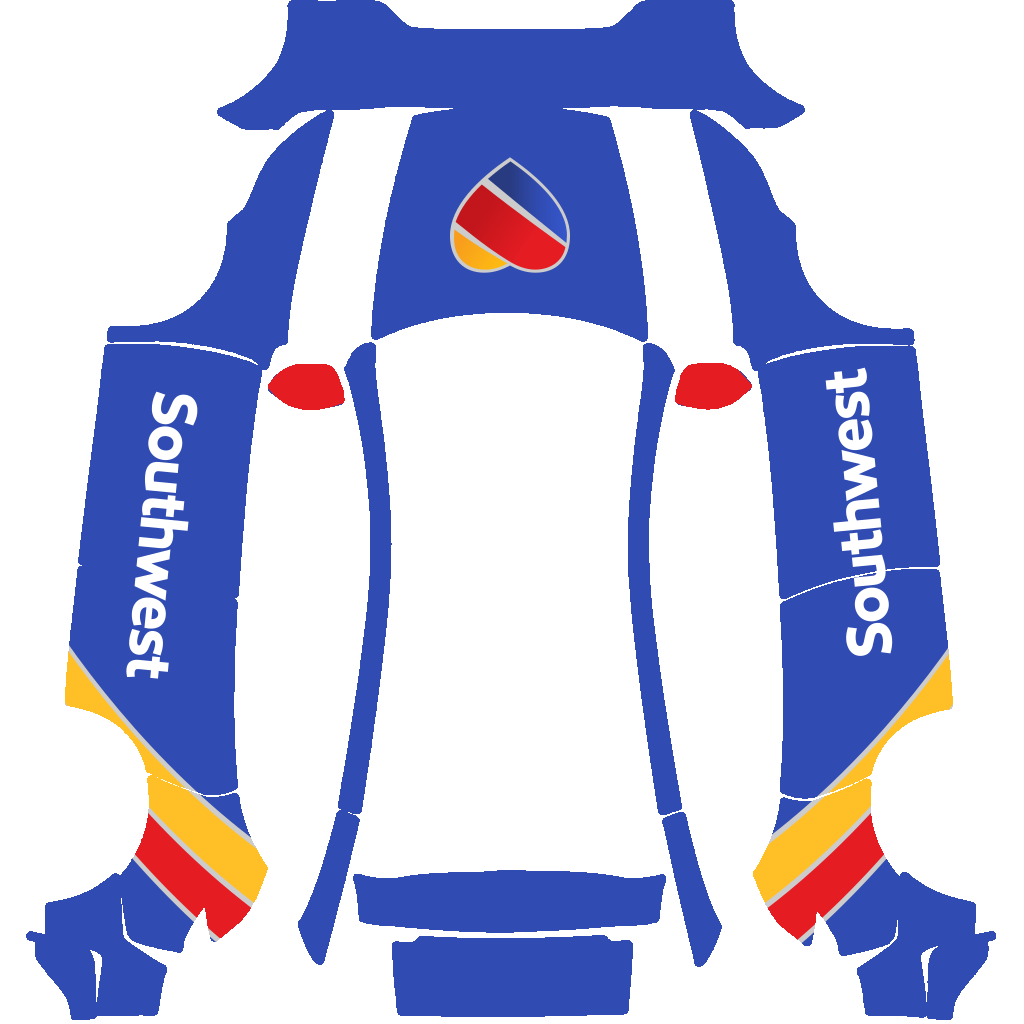
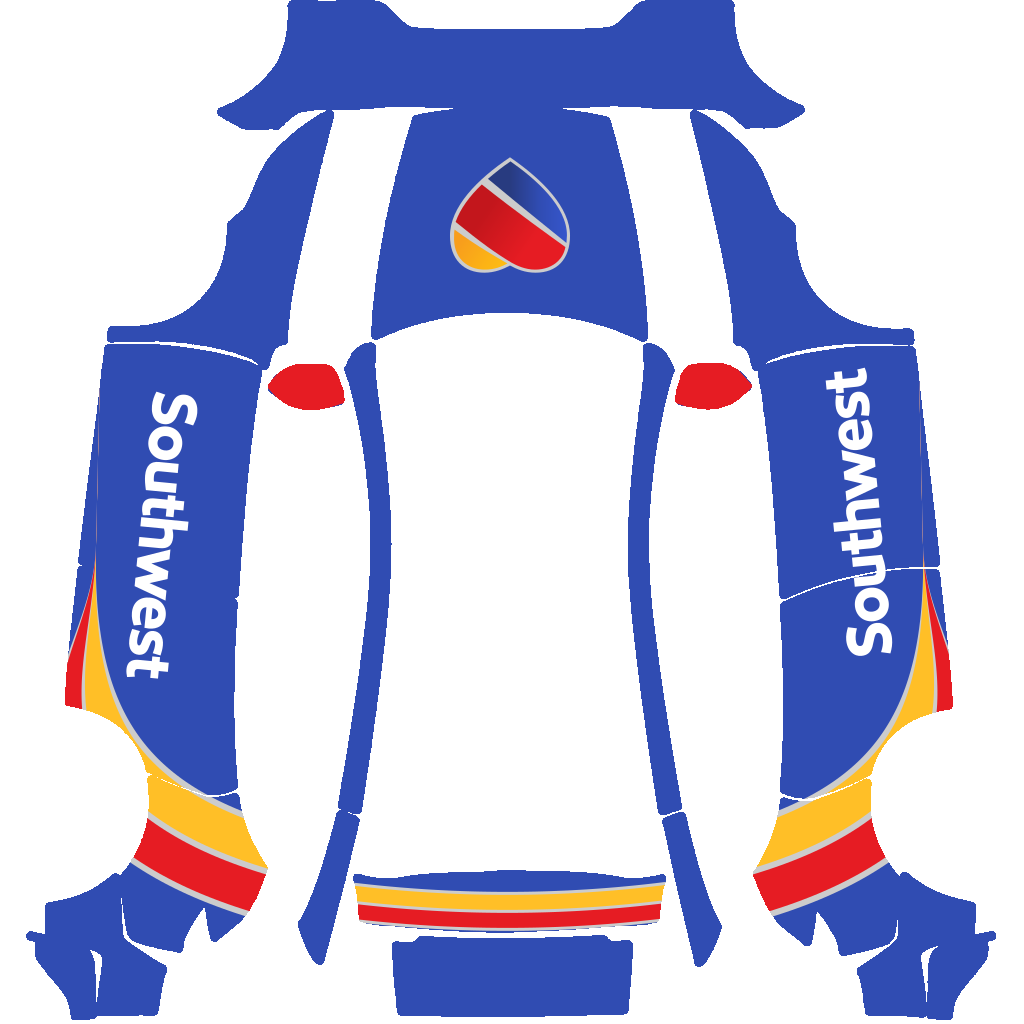
feat: curve the tail-stripe swoop and carry it across the liftgate
The side stripes now taper out of a point low on the doors, run back
along the bottom of the rear door and curve up over the rear wheel to
the window line, like the 737's stripes rising into the tail. Bands are
true offsets of the curve, so yellow and red keep equal widths around
the bend.

The liftgate strip above the light bar picks the stripes up at the rear
corners and carries them across the back, red nearest the light bar
and yellow above, following the strip's curve so they sit level on the
car.

diff --git a/src/livery.ts b/src/livery.ts
@@ -66,39 +66,14 @@ export function heart({ cx, cy, rotate = 0, size }: Placement & { size: number }
   );
 }
 
-/**
- * Fills everything on one side of `curve` with `fill`. The curve is extended
- * straight out of both ends by `reach` pixels, then the shape is closed
- * through the `around` points, which should sit well outside the panels on
- * the side to be filled. Painting successive curves on top of each other
- * builds up the livery's swoosh of stripes.
- */
-export function regionBeyond(
-  curve: Curve,
-  fill: string,
-  around: (start: Point, end: Point) => Point[],
-  reach = 400,
-): string {
-  const [p0, p1, p2, p3] = curve;
-  const extend = (from: Point, toward: Point): Point => {
-    const dx = from[0] - toward[0];
-    const dy = from[1] - toward[1];
-    const len = Math.hypot(dx, dy) || 1;
-    return [from[0] + (dx / len) * reach, from[1] + (dy / len) * reach];
-  };
-  const start = extend(p0, p1);
-  const end = extend(p3, p2);
-  const close = around(start, end)
-    .map((p) => ` L${pt(p)}`)
-    .join("");
-  return `<path fill="${fill}" d="M${pt(start)} L${pt(p0)} C${pt(p1)} ${pt(p2)} ${pt(p3)} L${pt(end)}${close} Z"/>`;
-}
+/** A stripe's color and its width in template pixels. */
+export type Stripe = [fill: string, width: number];
 
 /**
  * The tail stripes as they cross the 737's rear fuselage, front to back:
  * yellow and red bands of equal width, outlined by silver pinstripes.
  */
-export function tailStripes(band: number, pinstripe: number): [fill: string, width: number][] {
+export function tailStripes(band: number, pinstripe: number): Stripe[] {
   return [
     [COLORS.summitSilver, pinstripe],
     [COLORS.sunriseYellow, band],
@@ -108,25 +83,77 @@ export function tailStripes(band: number, pinstripe: number): [fill: string, wid
   ];
 }
 
+const bezier = ([p0, p1, p2, p3]: Curve, t: number): Point => {
+  const u = 1 - t;
+  const [a, b, c, d] = [u * u * u, 3 * u * u * t, 3 * u * t * t, t * t * t];
+  return [a * p0[0] + b * p1[0] + c * p2[0] + d * p3[0], a * p0[1] + b * p1[1] + c * p2[1] + d * p3[1]];
+};
+
+const tangent = ([p0, p1, p2, p3]: Curve, t: number): Point => {
+  const u = 1 - t;
+  const [a, b, c] = [u * u, 2 * u * t, t * t];
+  const dx = a * (p1[0] - p0[0]) + b * (p2[0] - p1[0]) + c * (p3[0] - p2[0]);
+  const dy = a * (p1[1] - p0[1]) + b * (p2[1] - p1[1]) + c * (p3[1] - p2[1]);
+  const len = Math.hypot(dx, dy) || 1;
+  return [dx / len, dy / len];
+};
+
+const smoothstep = (x: number) => {
+  const t = Math.min(Math.max(x, 0), 1);
+  return t * t * (3 - 2 * t);
+};
+
+export interface RibbonOptions {
+  /**
+   * How far along `edge` (0–1) the ribbon reaches full width. It tapers from
+   * a point at the start of the curve up to there. 0 means no taper.
+   */
+  fullAt?: number;
+  /**
+   * Points that close each band's fill, given where the extended edge starts
+   * and ends. They should sit well outside the panels, on the side the
+   * stripes stack toward.
+   */
+  around: (start: Point, end: Point) => Point[];
+}
+
 /**
- * Paints `stripes` as parallel bands. The first starts at `edge`, and each
- * band boundary after it is `edge` moved further along the unit vector
- * `step` by the widths so far. Everything past the last band goes back to
- * the body color.
+ * Paints `stripes` as a ribbon that follows `edge`. The first stripe starts
+ * on the curve and the rest stack beside it, to the right of the direction
+ * of travel, keeping their widths around bends. The ribbon runs straight on
+ * past both ends of the curve so it leaves the panels cleanly. Bands are
+ * painted one over another, finishing with the body color past the last.
  */
-export function parallelStripes(
-  edge: Curve,
-  stripes: [fill: string, width: number][],
-  step: Point,
-  around: (start: Point, end: Point) => Point[],
-): string {
-  const move = ([x, y]: Point, by: number): Point => [x + step[0] * by, y + step[1] * by];
-  const shifted = (by: number): Curve => [move(edge[0], by), move(edge[1], by), move(edge[2], by), move(edge[3], by)];
+export function ribbon(edge: Curve, stripes: Stripe[], { fullAt = 0, around }: RibbonOptions): string {
+  const steps = 96;
+  const reach = 400;
+  const boundary = (offset: number): Point[] => {
+    const points: Point[] = [];
+    for (let i = 0; i <= steps; i++) {
+      const t = i / steps;
+      const [x, y] = bezier(edge, t);
+      const [tx, ty] = tangent(edge, t);
+      const w = offset * (fullAt > 0 ? smoothstep(t / fullAt) : 1);
+      points.push([x - ty * w, y + tx * w]);
+    }
+    const [sx, sy] = tangent(edge, 0);
+    const [ex, ey] = tangent(edge, 1);
+    const first = points[0]!;
+    const last = points[steps]!;
+    const start: Point = [first[0] - sx * reach, first[1] - sy * reach];
+    const end: Point = [last[0] + ex * reach, last[1] + ey * reach];
+    return [start, ...points, end, ...around(start, end)];
+  };
+  const fill = (offset: number, color: string) =>
+    `<path fill="${color}" d="M${boundary(offset)
+      .map((p) => pt(p))
+      .join(" L")} Z"/>`;
+
   let offset = 0;
   let svg = "";
-  for (const [fill, width] of stripes) {
-    svg += regionBeyond(shifted(offset), fill, around);
+  for (const [color, width] of stripes) {
+    svg += fill(offset, color);
     offset += width;
   }
-  return svg + regionBeyond(shifted(offset), COLORS.boldBlue, around);
+  return svg + fill(offset, COLORS.boldBlue);
 }

diff --git a/src/models/modely-2025-performance.ts b/src/models/modely-2025-performance.ts
@@ -1,4 +1,4 @@
-import { COLORS, heart, parallelStripes, tailStripes, wordmark, type Curve, type Point } from "../livery.ts";
+import { COLORS, heart, ribbon, tailStripes, wordmark, type Curve, type Point } from "../livery.ts";
 import type { WrapModel } from "./types.ts";
 
 // Template layout (1024x1024, front of the car at the top):
@@ -8,23 +8,25 @@ import type { WrapModel } from "./types.ts";
 //   car's front is up, the rocker panel faces the outer edge and the
 //   beltline faces the center.
 // - Roof rails run down the middle beside the (unpainted) glass roof, ending
-//   at the D-pillars, with the liftgate and rear bumper at the bottom. Those
-//   stay Bold Blue, like the 737's tail cone.
+//   at the D-pillars, with the liftgate and rear bumper at the bottom. On the
+//   car the liftgate panel is the strip between the rear window and the
+//   light bar, and its ends wrap around the corners above the tail lights.
 
 /** The template's left and right halves mirror around x = MIRROR_X / 2. */
 const MIRROR_X = 1019;
 
 /**
- * Leading edge of the tail stripes on the driver side. It rises from the
- * rocker just behind the title, across the rear door and quarter panel, to
- * the window line at the back. It steepens slightly toward the top, like the
- * stripes rising into the 737's tail.
+ * Leading edge of the tail stripes on the driver side, like the stripes on
+ * the 737 that start low on the fuselage and curve up into the tail. They
+ * taper out of a point low on the doors, under the end of the title, run
+ * back along the bottom of the rear door, then curve up over the rear wheel
+ * to the window line.
  */
-const STRIPE_EDGE: Curve = [
-  [40, 602],
-  [100, 697],
-  [190, 802],
-  [300, 872],
+const SWOOP: Curve = [
+  [96, 545],
+  [92, 720],
+  [150, 790],
+  [300, 830],
 ];
 
 // Fill toward the rocker and the rear of the car.
@@ -34,13 +36,39 @@ const behind = (start: Point, end: Point): Point[] => [
   [-100, start[1]],
 ];
 
+/**
+ * Bottom edge of the liftgate panel, against the light bar, running from the
+ * passenger side to the driver side so the stripes stack upward. It sags
+ * toward the middle in the template but is straight on the car.
+ */
+const LIFTGATE_BOTTOM: Curve = [
+  [690, 918],
+  [570, 935],
+  [450, 935],
+  [330, 919],
+];
+
+// Fill up toward the rear window.
+const above = (start: Point, end: Point): Point[] => [
+  [end[0], 800],
+  [start[0], 800],
+];
+
 function driverSide(): string {
   return (
     `<g clip-path="url(#side)">` +
-    parallelStripes(STRIPE_EDGE, tailStripes(56, 7), [0, 1], behind) +
+    ribbon(SWOOP, tailStripes(40, 6), { fullAt: 0.55, around: behind }) +
     `</g>` +
     // Mirror caps in tail red.
     `<path fill="${COLORS.warmRed}" d="M266 386 L288 362 L338 362 L347 402 L316 412 L286 408 Z"/>`
+  );
+}
+
+function liftgate(): string {
+  // The side stripes wrap around the back above the light bar, red lowest
+  // and yellow above it, in the order they reach the rear corners.
+  return (
+    `<g clip-path="url(#liftgate)">` + ribbon(LIFTGATE_BOTTOM, tailStripes(15, 3).reverse(), { around: above }) + `</g>`
   );
 }
 
@@ -50,11 +78,15 @@ export const modelYPerformance2025: WrapModel = {
   width: 1024,
   height: 1024,
   design: () =>
-    `<defs><clipPath id="side"><rect x="0" y="330" width="296" height="694"/></clipPath></defs>` +
+    `<defs>` +
+    `<clipPath id="side"><rect x="0" y="330" width="296" height="694"/></clipPath>` +
+    `<clipPath id="liftgate"><rect x="353" y="860" width="314" height="75"/></clipPath>` +
+    `</defs>` +
     `<rect width="1024" height="1024" fill="${COLORS.boldBlue}"/>` +
     // Driver side, then the same artwork mirrored onto the passenger side.
     driverSide() +
     `<g transform="matrix(-1 0 0 1 ${MIRROR_X} 0)">${driverSide()}</g>` +
+    liftgate() +
     // Titles read front-to-back on the driver side and back-to-front on the
     // passenger side, like on the aircraft. The ~6° tilt follows the doors.
     // Each is placed so the door gap runs through the middle of the "w" on

diff --git a/README.md b/README.md
@@ -1,7 +1,8 @@
 # tesla-southwest-wraps
 
 Digital wraps for Tesla's in-car Paint Shop, styled after the Southwest Airlines 737 "Heart" livery: a Bold Blue body
-with the white "Southwest" title, the yellow/red stripes sweeping up to the tail, and the heart on the hood.
+with the white "Southwest" title, the yellow/red tail stripes curving up over the rear wheels and across the liftgate,
+and the heart on the hood.
 
 ![Southwest wrap on a Model Y Performance](previews/modely-2025-performance.jpg)
 
